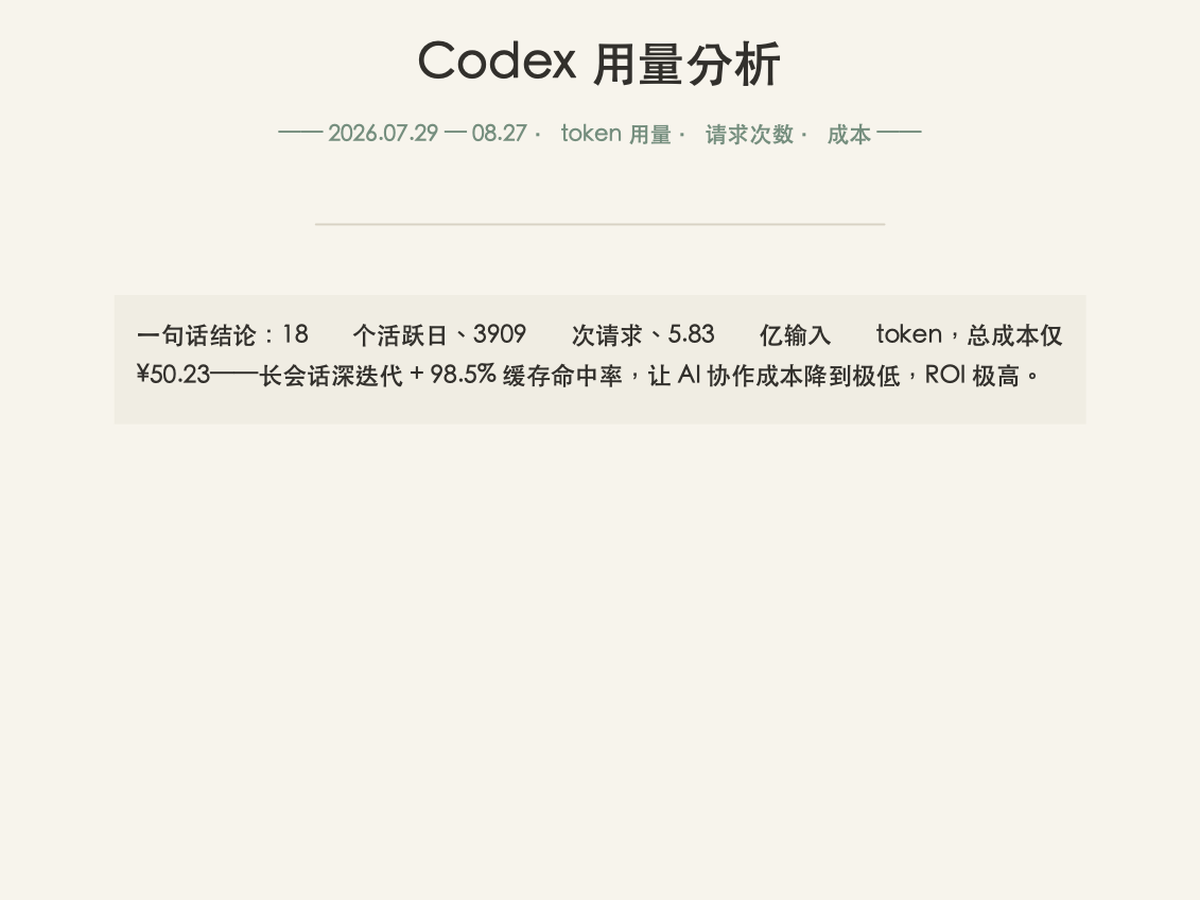
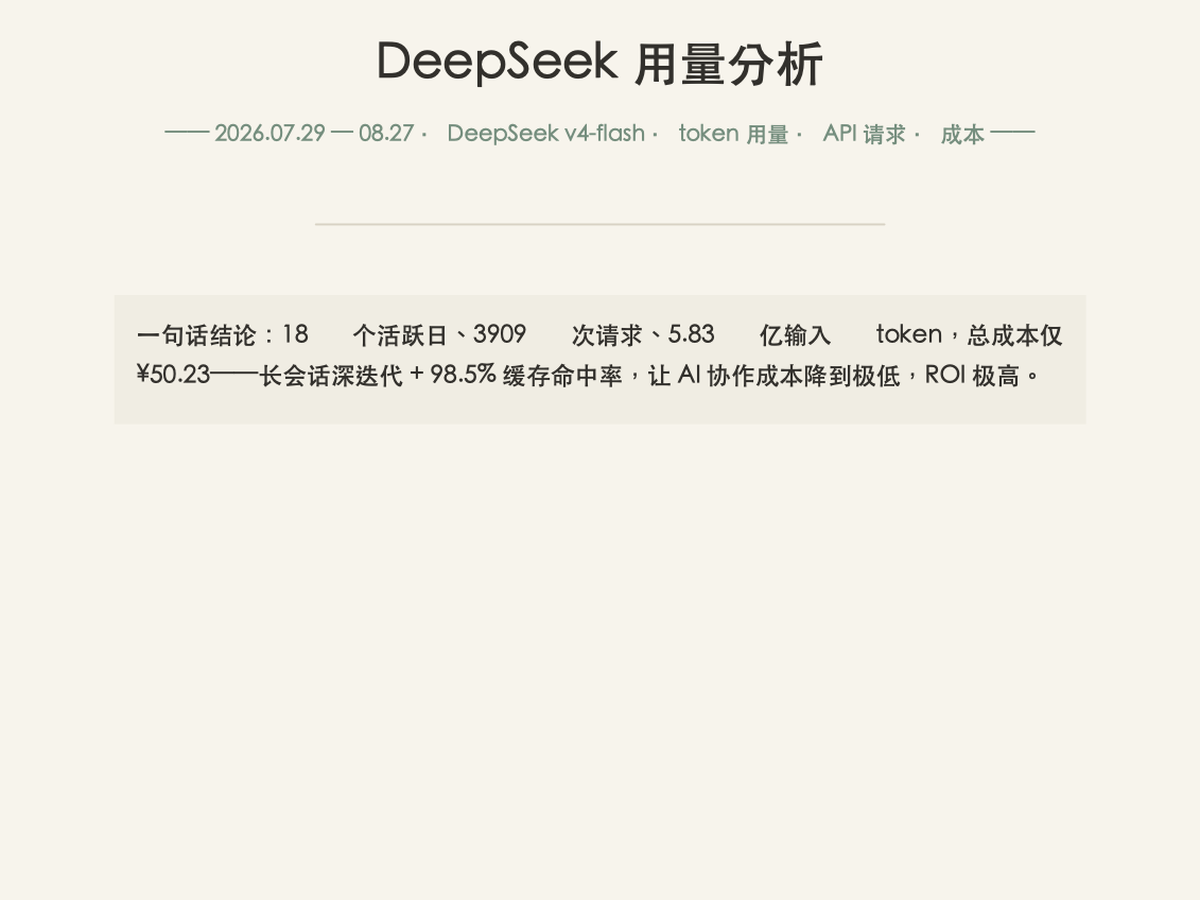
DeepSeek 用量分析接入并同步两个网站; app v3.0.2

Changed region(s): [[0.1542, 0.1244, 0.8633, 0.1867], [0.3083, 0.0311, 0.6783, 0.0933]]

diff --git a/华南文研/index.html b/华南文研/index.html
@@ -282,7 +282,7 @@ a{color:inherit;text-decoration:none}
     <a class="tel" id="telBtn" href="tel:19058141302">✆ 电话联系我</a>
     <a class="xhs" href="https://xhslink.cn/m/AjzR7MGuqz2" target="_blank">📕 小红书主页</a>
   </div>
-  <div class="hint">华南师大文学理论考研 · 文学理论 / 西方文论 / 古代文论 · v3.0.1 数据更新 2026.08</div>
+  <div class="hint">华南师大文学理论考研 · 文学理论 / 西方文论 / 古代文论 · v3.0.2 数据更新 2026.08</div>
 </footer>
 
 <script src="qbank.js"></script>
@@ -903,6 +903,10 @@ function renderMe(){
   html += '<div style="display:flex;flex-wrap:wrap;gap:10px;margin:12px 0">' +
     stat.map(s=>'<div style="flex:1;min-width:88px;background:#F1EDE2;border:1px solid #D9D2C2;border-radius:10px;padding:12px 8px;text-align:center"><div style="font-size:20px;font-weight:700;color:#4E6B58">'+s[1]+'</div><div style="font-size:11px;color:#8A8578;margin-top:4px">'+s[0]+'</div></div>').join("") + '</div>';
   html += '<div style="text-align:center;margin:14px 0 12px"><button class="gbtn" style="margin-top:0" onclick="exportWrongs()">导出错题（打印 / PDF）</button></div>';
+  html += '<div style="background:#fffdf8;border:1px solid #D9D2C2;border-radius:12px;padding:14px;margin:12px 0;display:flex;align-items:center;gap:10px">' +
+    '<span style="flex:none;width:30px;height:30px;border-radius:8px;background:#4E6B58;color:#FBF8F1;display:flex;align-items:center;justify-content:center;font-size:13px">据</span>' +
+    '<div style="flex:1"><b style="font-size:14px;letter-spacing:1px">DeepSeek 用量分析</b><div style="font-size:11px;color:#8A8578;margin-top:3px">token 用量 · API 请求 · 成本</div></div>' +
+    '<a href="assets/用量数据分析.pdf" target="_blank" style="color:#BC563D;font-size:13px">查看 ↗</a></div>';
   html += all.map(sub=>{
     const ws = getWrongs(sub);
     if(!ws.length) return '';

diff --git a/index.html b/index.html
@@ -620,8 +620,8 @@ footer .copy{margin-top:24px;font-size:11.5px;color:#b7a98f;letter-spacing:.12em
           <div class="wsub">token · 请求 · 成本</div>
         </div>
         <div class="body">
-          <h3>数据分析作品 · Codex 用量洞察</h3>
-          <p class="desc">基于本人 3909 次真实 API 调用的完整分析：5.83 亿输入 token、98.5% 缓存命中率、总成本 ¥50.23——用数据说明长会话深迭代的成本杠杆，附产品经理能力学习路径。</p>
+          <h3>数据分析作品 · DeepSeek 用量洞察</h3>
+          <p class="desc">基于本人 3909 次 DeepSeek v4-flash API 调用的完整分析：5.83 亿输入 token、98.5% 缓存命中率、总成本 ¥50.23——用数据说明长会话深迭代的成本杠杆，附产品经理能力学习路径。</p>
           <div class="links"><a href="assets/files/用量数据分析与产品经理学习路径.pdf" target="_blank">查看分析 ↗</a></div>
         </div>
       </div>

diff --git a/华南文研/sw.js b/华南文研/sw.js
@@ -1,5 +1,5 @@
 /* 华南文研 · Service Worker —— 离线缓存，支持"添加到主屏幕"离线使用 */
-const CACHE = "hszy-v3.0.1";
+const CACHE = "hszy-v3.0.2";
 const FILES = [
   "./",
   "./index.html",
@@ -9,6 +9,7 @@ const FILES = [
   "./assets/icon-180.png",
   "./assets/真题_2022-2026.pdf",
   "./assets/陶东风拆书精读.pdf",
+  "./assets/用量数据分析.pdf",
   "./assets/文学理论_三版本教材对比复习指南.pdf",
   "./assets/西方文论_复习思路拆解.pdf",
   "./assets/古代文论_五论四坐标轴语料库.pdf",
